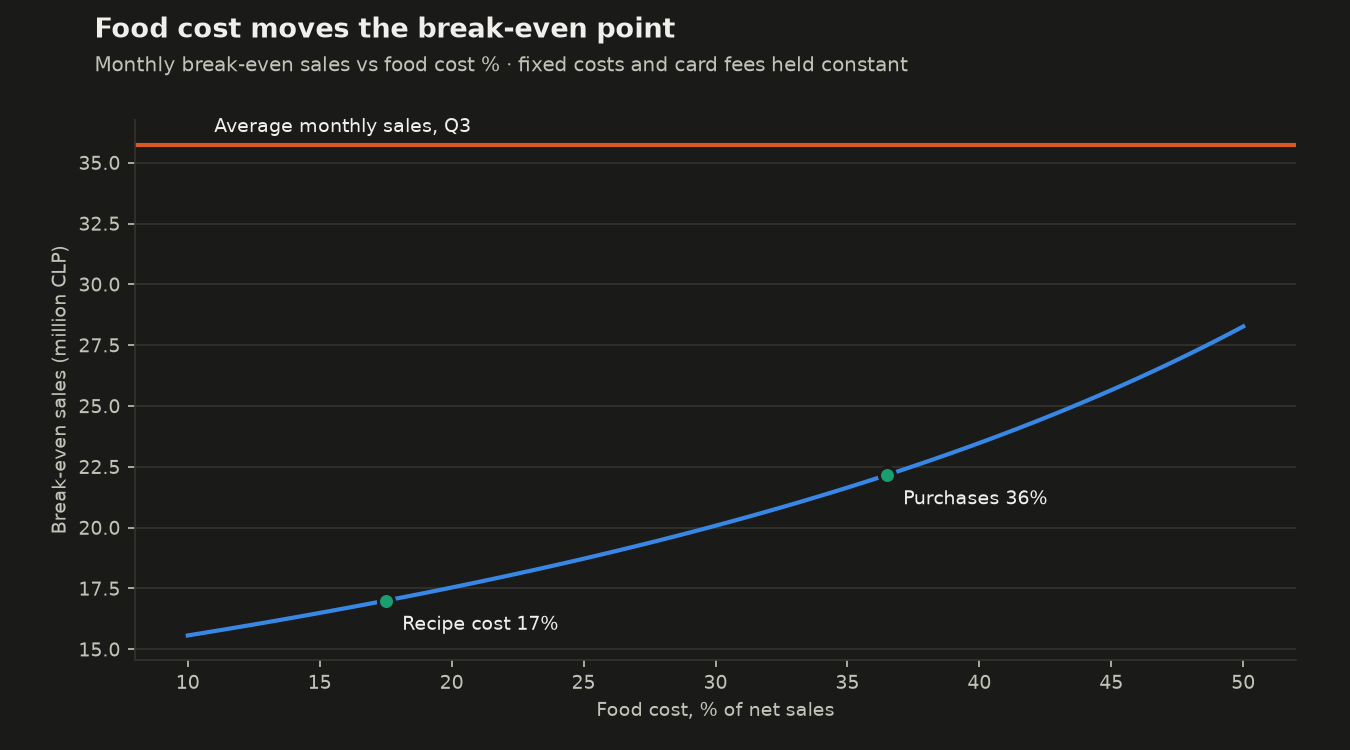
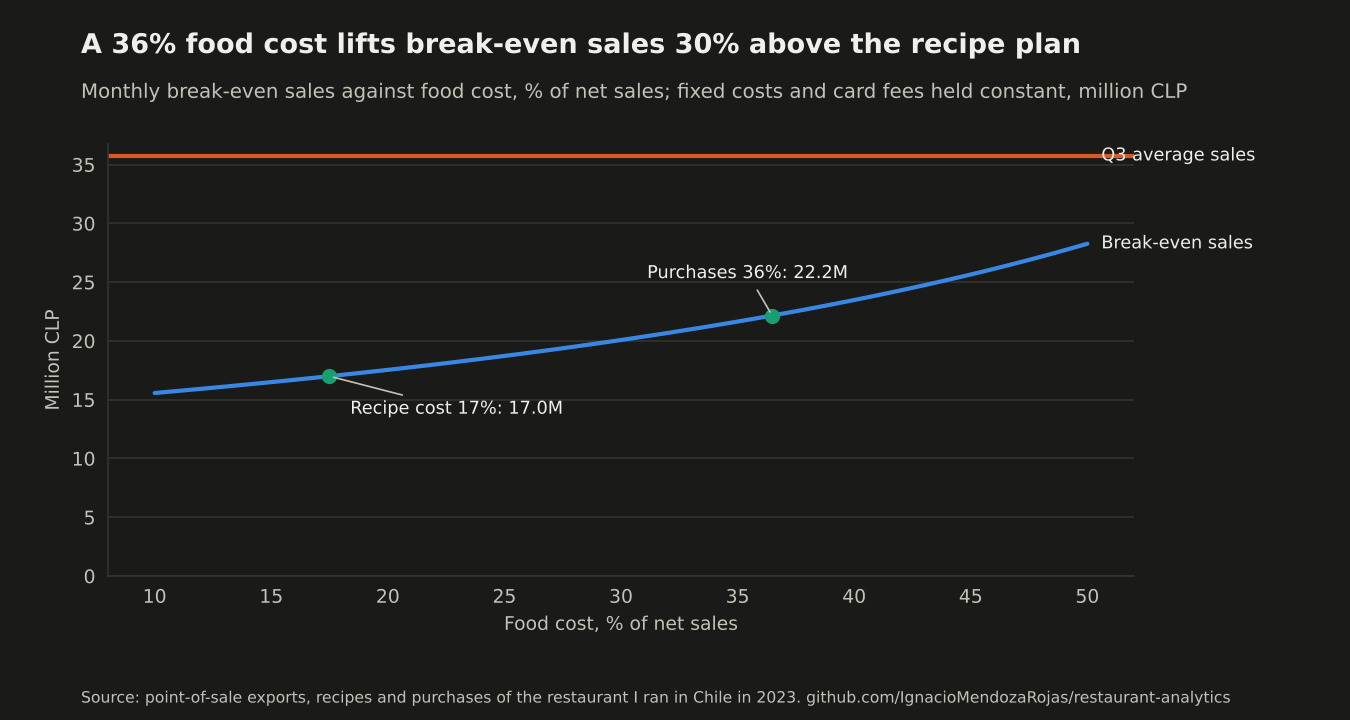
Restaurant figure in the shared style
Claude-Session: https://claude.ai/code/session_019UaFFjkQ6ExkDPHFPXv5Fc

diff --git a/index.html b/index.html
@@ -114,7 +114,7 @@
   <figure>
     <picture>
       <source media="(prefers-color-scheme: dark)" srcset="assets/fig/restaurant-dark.png">
-      <img src="assets/fig/restaurant-light.png" alt="Break-even monthly sales rising with food cost percentage, against average monthly sales" loading="lazy" width="1350" height="750">
+      <img src="assets/fig/restaurant-light.png" alt="Break-even monthly sales rising with food cost: 17.0M CLP at the 17% recipe cost, 22.2M at the 36% shown by purchases" loading="lazy" width="1350" height="720">
     </picture>
   </figure>
   <p class="project"><a href="https://github.com/IgnacioMendozaRojas/restaurant-analytics">restaurant-analytics: analysis and code</a></p>

diff --git a/tools/build.py b/tools/build.py
@@ -20,7 +20,7 @@ FIGURES = {
     "liquidity": "chile-bank-liquidity/docs/figures/cost-{theme}.png",
     "clinics": "chile-clinics-benchmark/docs/figures/allowance_coverage-{theme}.png",
     "sqm": "equity-research-engine/companies/sqm/reports/figures/montecarlo-2026-10-16-{theme}.png",
-    "restaurant": "restaurant-analytics/docs/break_even_{theme}.png",
+    "restaurant": "restaurant-analytics/docs/break-even-{theme}.png",
 }
 REPORTS = REPOS / "equity-research-engine/companies/sqm/reports"
 TEMPLATE = """<!doctype html>
